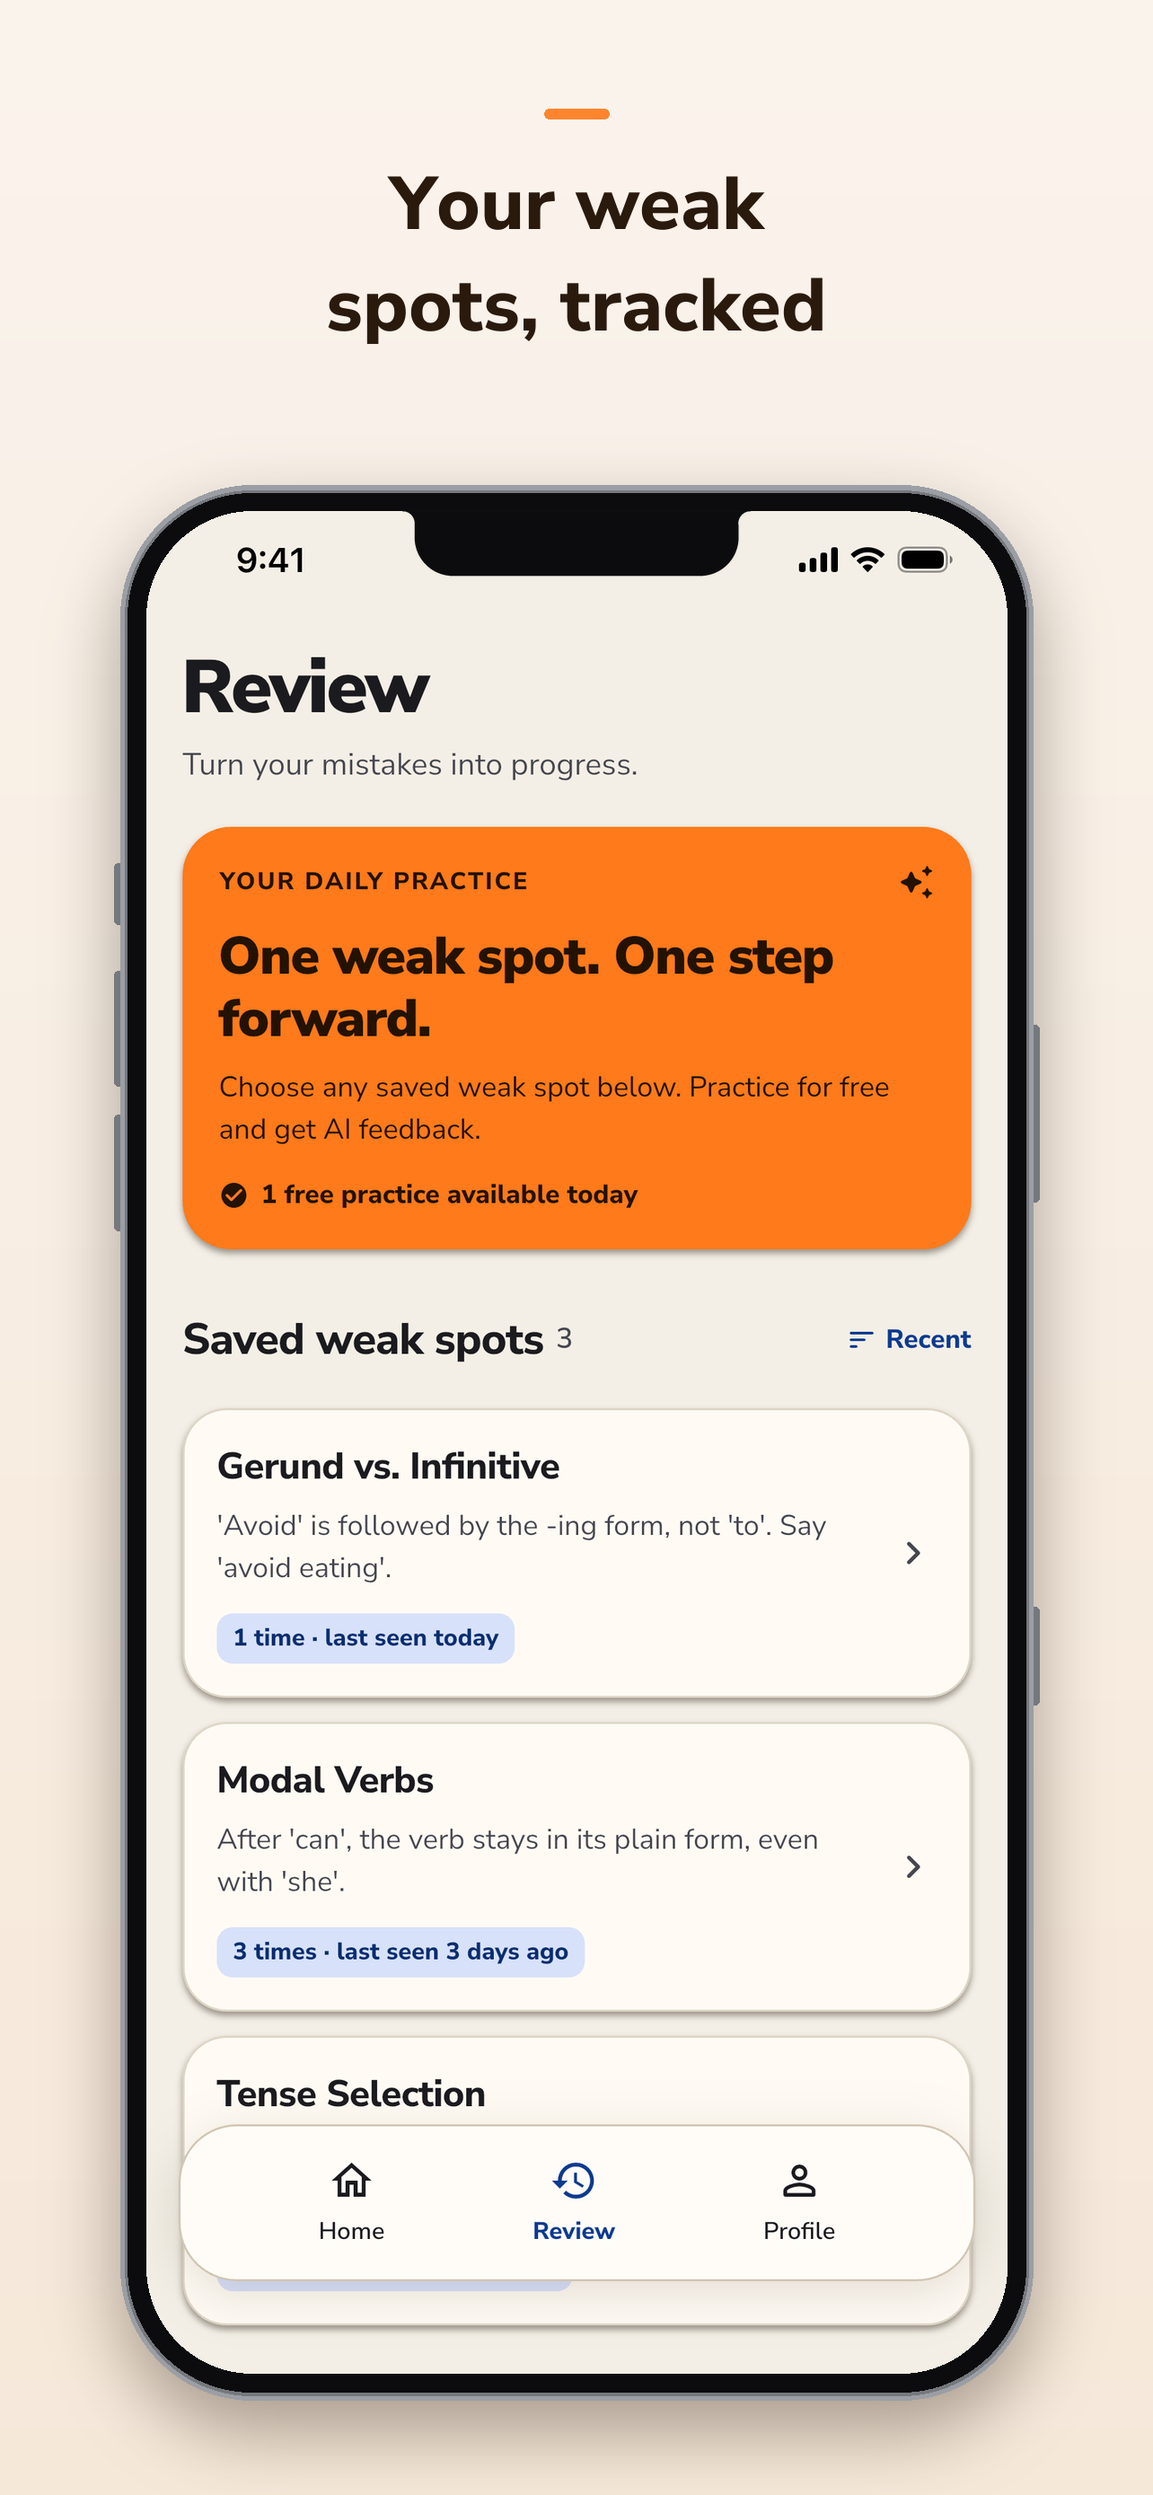
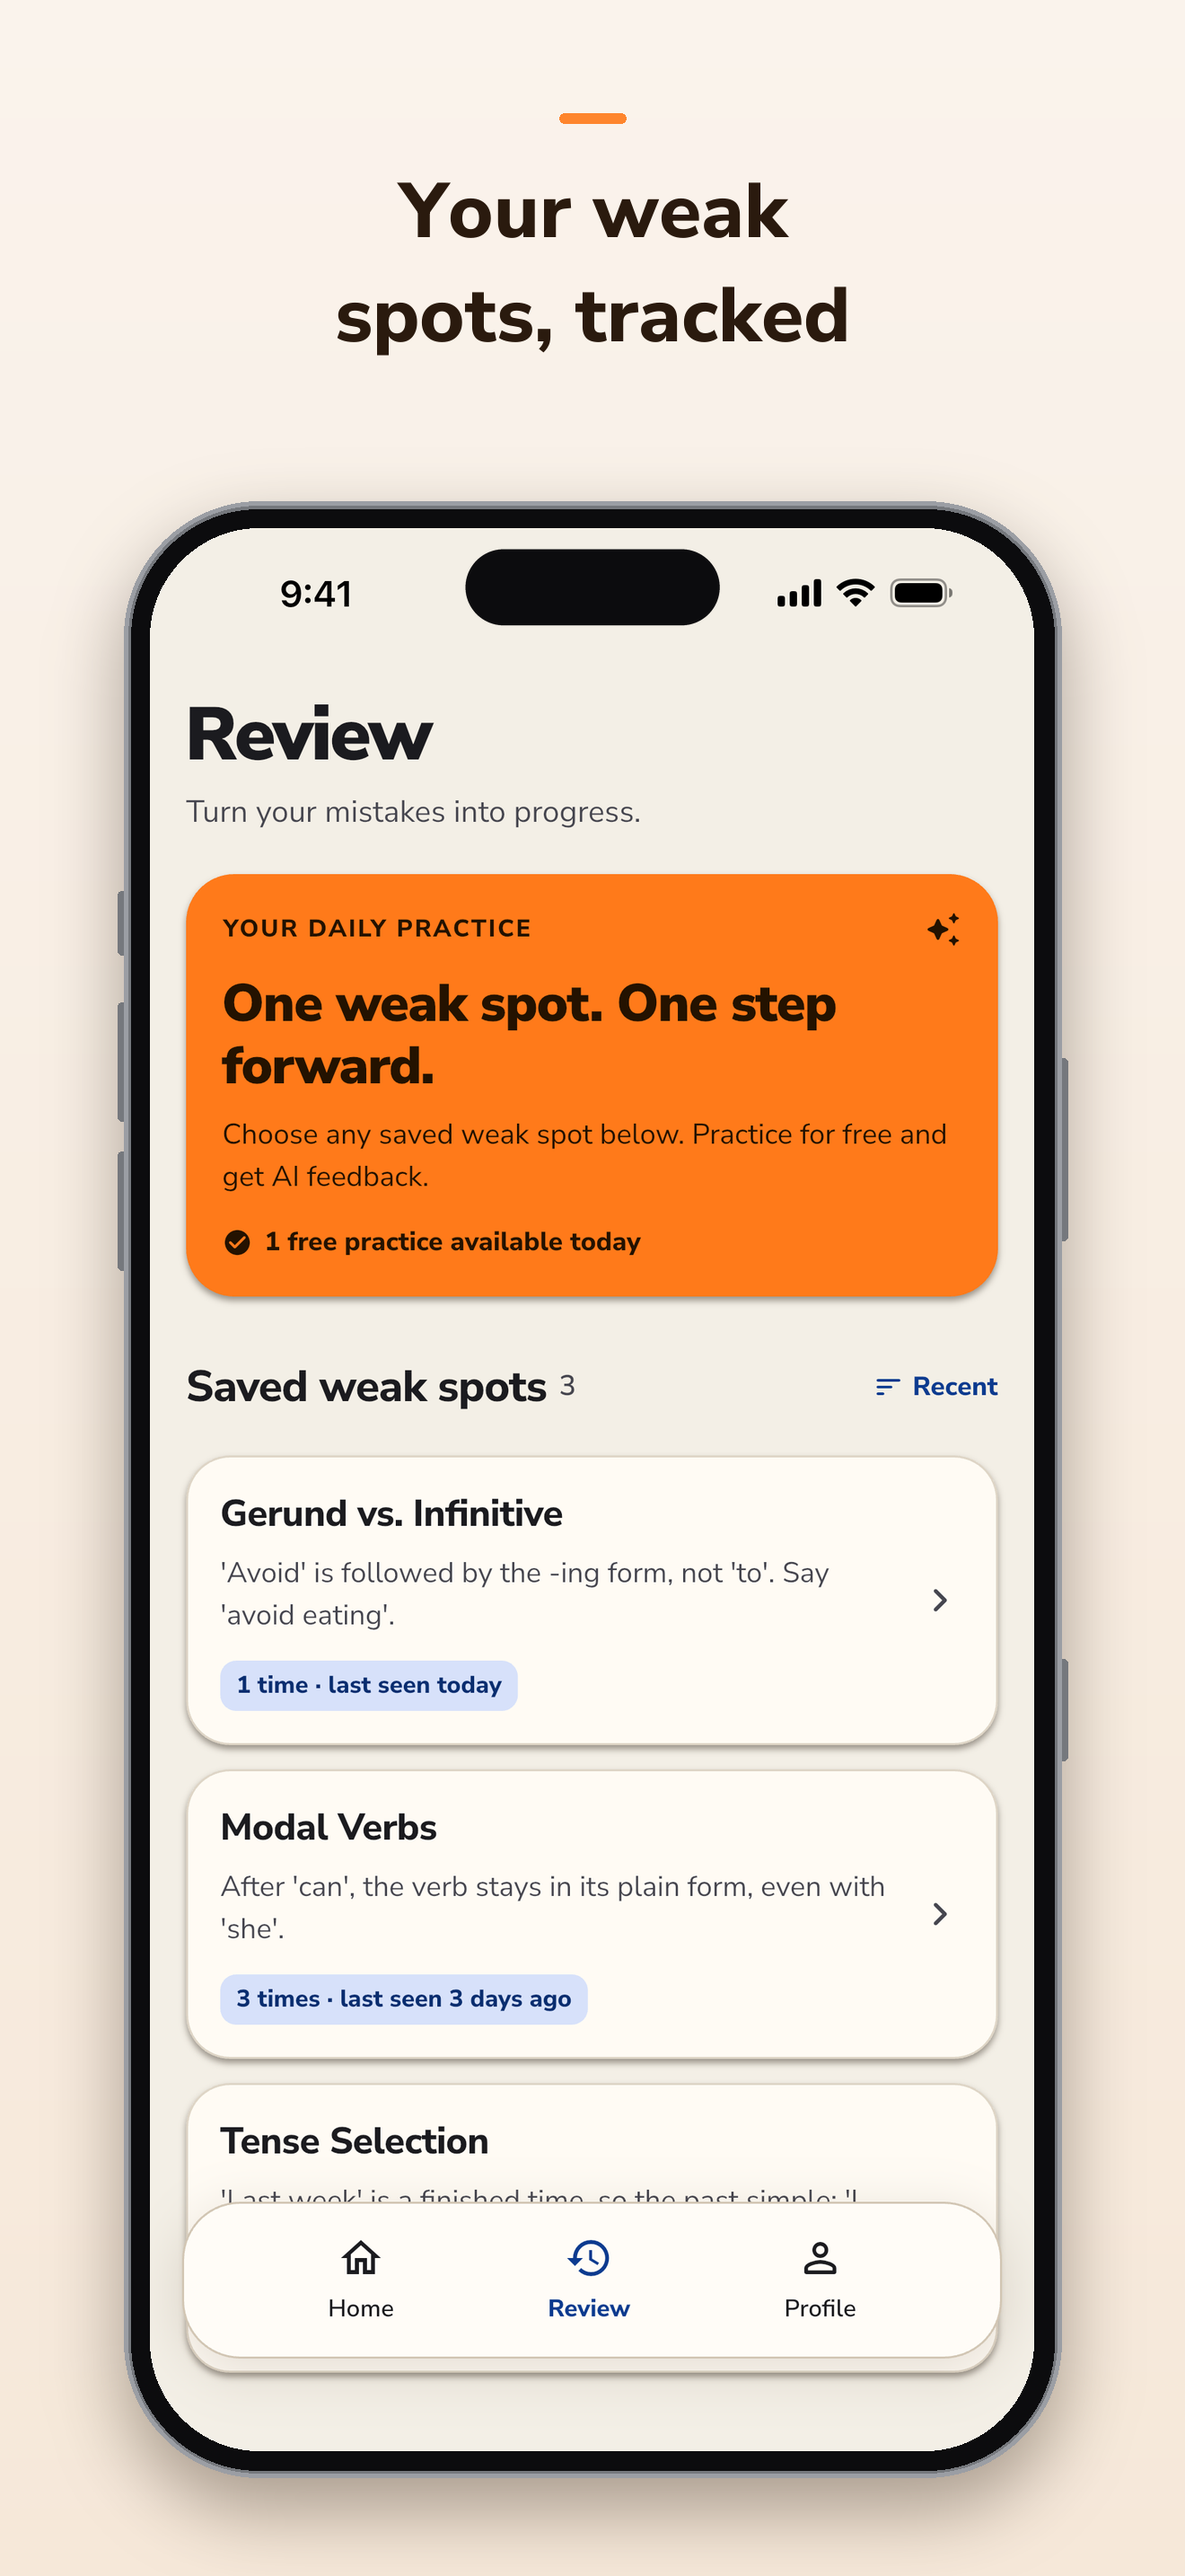
screenshots: 1.2.0 iPhone set moved to 6.9" (1320x2868), README and case-study images redone

Changed region(s): [[0.1558, 0.1857, 0.8411, 0.9597], [0.5919, 0.5882, 0.7165, 0.6192], [0.5296, 0.0619, 0.6542, 0.0929]]

diff --git a/screenshots/1.2.0/README.md b/screenshots/1.2.0/README.md
@@ -28,7 +28,10 @@ comparisons, read only).
 Version 1.2.0, English (U.S.). Upload in this order (the first three
 appear in search).
 
-### iPhone 6.5" Display (1284 × 2778)
+### iPhone 6.9" Display (1320 × 2868)
+
+Taken on the iPhone 17 Pro Max simulator, framed with its Dynamic Island
+(owner, 2026-10-07; build log).
 
 | Order | File | Caption on the image |
 |---|---|---|
@@ -41,9 +44,10 @@ appear in search).
 | 7 | `store/iphone/07-collection.png` | Collect every mountain |
 | 8 | `store/iphone/08-goal.png` | Set your goal in a minute |
 
-If an iPhone 6.9" set is already in App Store Connect, clear it (or
-replace it): with no 6.9" set, App Store Connect scales the 6.5" set for
-the larger iPhones; with an old one, they keep showing it.
+No separate 6.5" set is uploaded: App Store Connect uses the 6.9" set for
+the 6.5" display too. If an older iPhone set (6.9" or 6.5") is already in
+App Store Connect, replace the 6.9" one with this set and clear the 6.5"
+one, or those iPhones keep showing it.
 
 ### iPad 13" Display (2064 × 2752)
 
@@ -62,7 +66,9 @@ the larger iPhones; with an old one, they keep showing it.
 | Annual, $49.99, 1-week free trial | `grammarlens_premium_annual` | `subscription-review/annual.png` (annual selected, "Start my 7-day free trial") |
 | Monthly, $5.99, 3-day free trial | `grammarlens_premium_monthly` | `subscription-review/monthly.png` (monthly selected, "Start my 3-day free trial") |
 
-1284 × 2778 (an accepted iPhone size), unframed. Taken with the debug
+1284 × 2778 (an accepted iPhone size, iPhone 14 Plus simulator),
+unframed. Not retaken with the 6.9" set: review only, and these are the
+images compared with the sandbox paywall. Taken with the debug
 price fixture (the real prices and trial lengths, eligible). Before
 uploading they were compared with the sandbox paywall on the owner's
 iPhone (2026-10-07): the same prices, "≈ $4.17 per month", the struck
@@ -72,6 +78,9 @@ iPhone (2026-10-07): the same prices, "≈ $4.17 per month", the struck
 
 - `readme/`: the GitHub README's hero (1800 × 1100) and four frames
   (600 × 1298).
+- The 600 × 1298 images are scaled to 600 wide and cut evenly at the top
+  and bottom (the 6.9" capture is about 6 px taller at that width), not
+  squeezed.
 - `case-study/`: for ahmettayfur.com, not copied there (the owner's step).
   - Same names and size as the site's current images (600 × 1298 webp,
     raw app screens): `daily-test-explanation`, `day0-1-test`,
